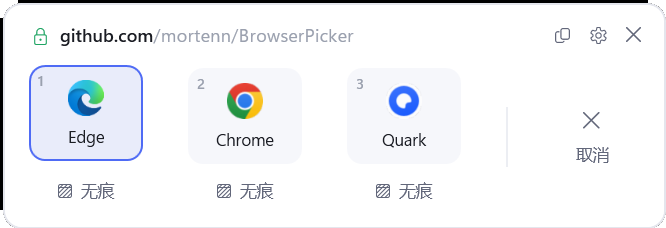
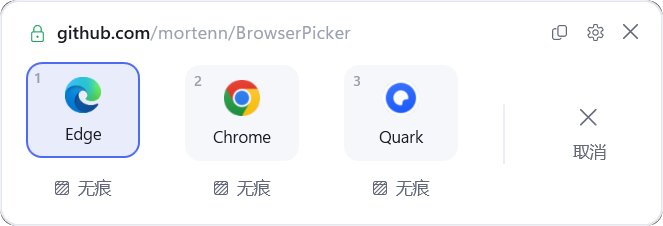
修复 README 图片：图标改为单个透明背景，弹窗截图去除黑边
- make-icon.ps1 新增 -PngPath，导出 256px 透明背景图标
- 新增 clean-screenshot.ps1：按卡片边界裁剪并加圆角透明遮罩
- README 顶部图标缩小为 128px

diff --git a/README.md b/README.md
@@ -1,6 +1,6 @@
 <div align="center">
 
-<img src="docs/images/icon.png" alt="Brona" width="420" />
+<img src="docs/images/icon.png" alt="Brona" width="128" />
 
 # Brona
 
